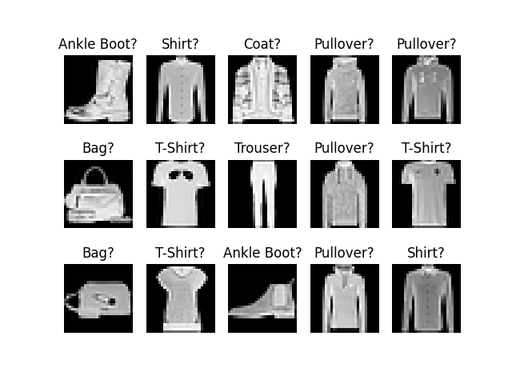
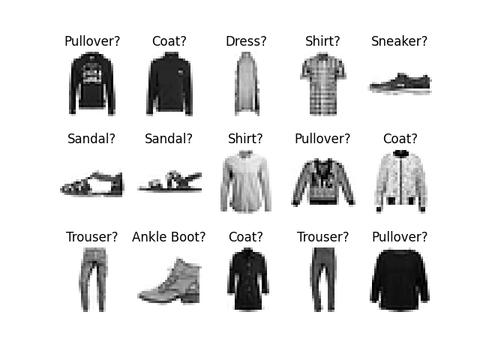
Add comments

diff --git a/pytorch_tutorial/multilayer_perceptron/test_multilayer_perceptron.py b/pytorch_tutorial/multilayer_perceptron/test_multilayer_perceptron.py
@@ -30,10 +30,10 @@ def test_multilayer_perceptron(show_plots=False):
 
     # Hyperparameters
     n_samples = 500  # Number of data samples
-    hidden_layer_dim = 3  # Number of neurons on the hidden layer of the MLP
     n_epochs = 50  # Number of training iterations on the whole dataset
     learning_rate = 0.1  # Rate of parameter change during gradient descent
     batch_size = 5  # Number of samples used for one gradient descent step
+    hidden_layer_dim = 3  # Number of neurons on the hidden layer of the MLP
 
     # Generate 2D data (a large circle containing a smaller circle)
     inputs, targets = make_circles(n_samples=n_samples, noise=0.1, factor=0.3)

diff --git a/pytorch_tutorial/convolutional_neural_network/test_convolutional_neural_network.py b/pytorch_tutorial/convolutional_neural_network/test_convolutional_neural_network.py
@@ -70,7 +70,9 @@ def test_convolutional_neural_network(show_plots=False):
     batch_size = 64  # Number of samples used for one gradient descent step
     conv2d_kernel_size = 3  # Size of the 2D convolution kernels
 
-    # Download and construct the Fashion-MNIST images dataset
+    # Download and construct the Fashion-MNIST images dataset.
+    # ToTensor() converts a PIL Image or NumPy array (H x W x C) in the range [0, 255]
+    # to a PyTorch tensor of shape (C x H x W) in the range [0.0, 1.0].
     # The training set is used to train the model
     train_dataset = datasets.FashionMNIST(
         root=DATA_DIR,

diff --git a/pytorch_tutorial/utils.py b/pytorch_tutorial/utils.py
@@ -173,7 +173,9 @@ def plot_fashion_images(dataset, device, model=None):
         img, label = dataset[sample_idx]
         figure.add_subplot(rows, cols, i)
         plt.axis("off")
-        plt.imshow(img.cpu().detach().numpy().squeeze(), cmap="gray")
+
+        # The color depth channel is removed to obtain a (H x W) tensor ready for plotting
+        plt.imshow(img.squeeze(), cmap="binary")
 
         # Title is either the true or predicted fashion item
         if model is None:

diff --git a/pytorch_tutorial/convolutional_neural_network/README.md b/pytorch_tutorial/convolutional_neural_network/README.md
@@ -54,7 +54,7 @@ conv2d_kernel_size = 3  # Size of the 2D convolution kernels
 
 We use [Fashion-MNIST](https://github.com/zalandoresearch/fashion-mnist), a classic dataset for image recognition. Each example is a 28x28 grayscale image,  associated with a label (fashion category) from 10 possible classes: t-shirt, trouser, pullover...
 
-This dataset is provided by PyTorch through the [FashionMNIST](https://pytorch.org/vision/0.19/generated/torchvision.datasets.FashionMNIST.html) class. In order to evaluate the trained model performance on unseen data, this class lets us download either the training set (60,000 images) or the test set (10,000 images).
+No need to download it manually: this dataset is provided by PyTorch through the [FashionMNIST](https://pytorch.org/vision/0.19/generated/torchvision.datasets.FashionMNIST.html) class, which lets us download either the training set (60,000 images) or the test set (10,000 images).
 
 Alongside download, a [transform](https://pytorch.org/vision/main/transforms.html) operation is applied to turn images into PyTorch tensors of shape `(color_depth, height, width)`, with pixel values scaled to the $[0,1]$ range.
 
@@ -64,7 +64,9 @@ Alongside download, a [transform](https://pytorch.org/vision/main/transforms.htm
 # Directory for downloaded files
 DATA_DIR = "./_output"
 
-# Download and construct the Fashion-MNIST images dataset
+# Download and construct the Fashion-MNIST images dataset.
+# ToTensor() converts a PIL Image or NumPy array (H x W x C) in the range [0, 255]
+# to a PyTorch tensor of shape (C x H x W) in the range [0.0, 1.0].
 # The training set is used to train the model
 train_dataset = datasets.FashionMNIST(
     root=DATA_DIR,
